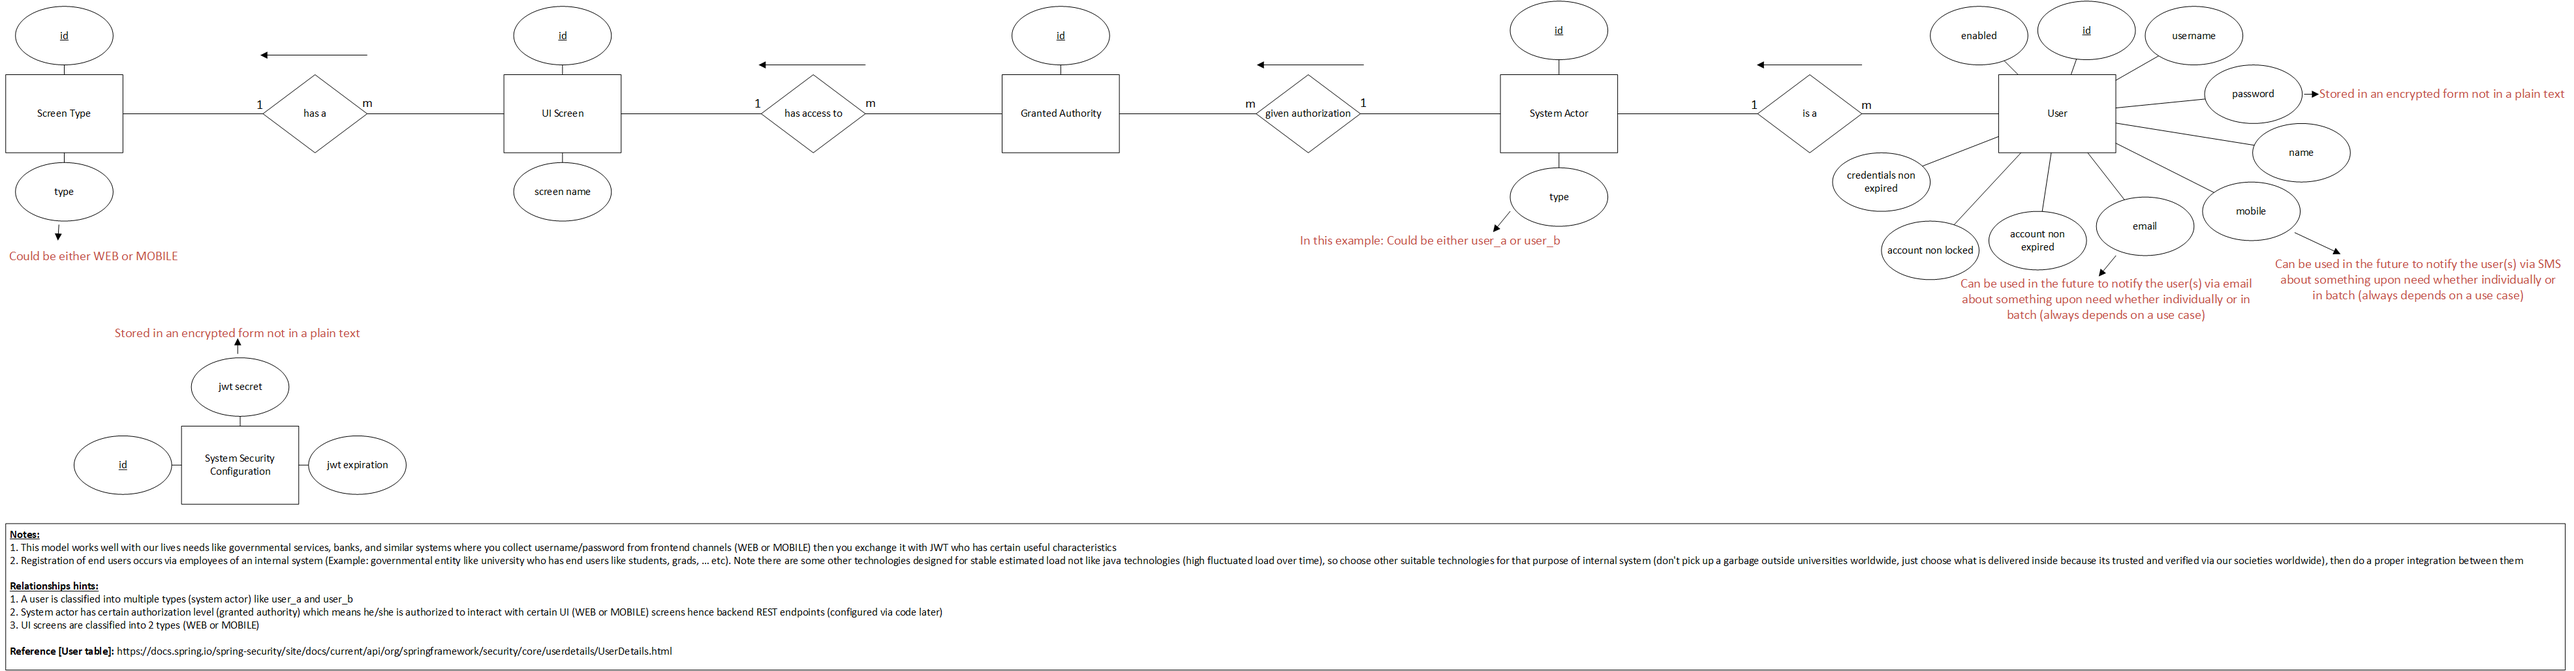
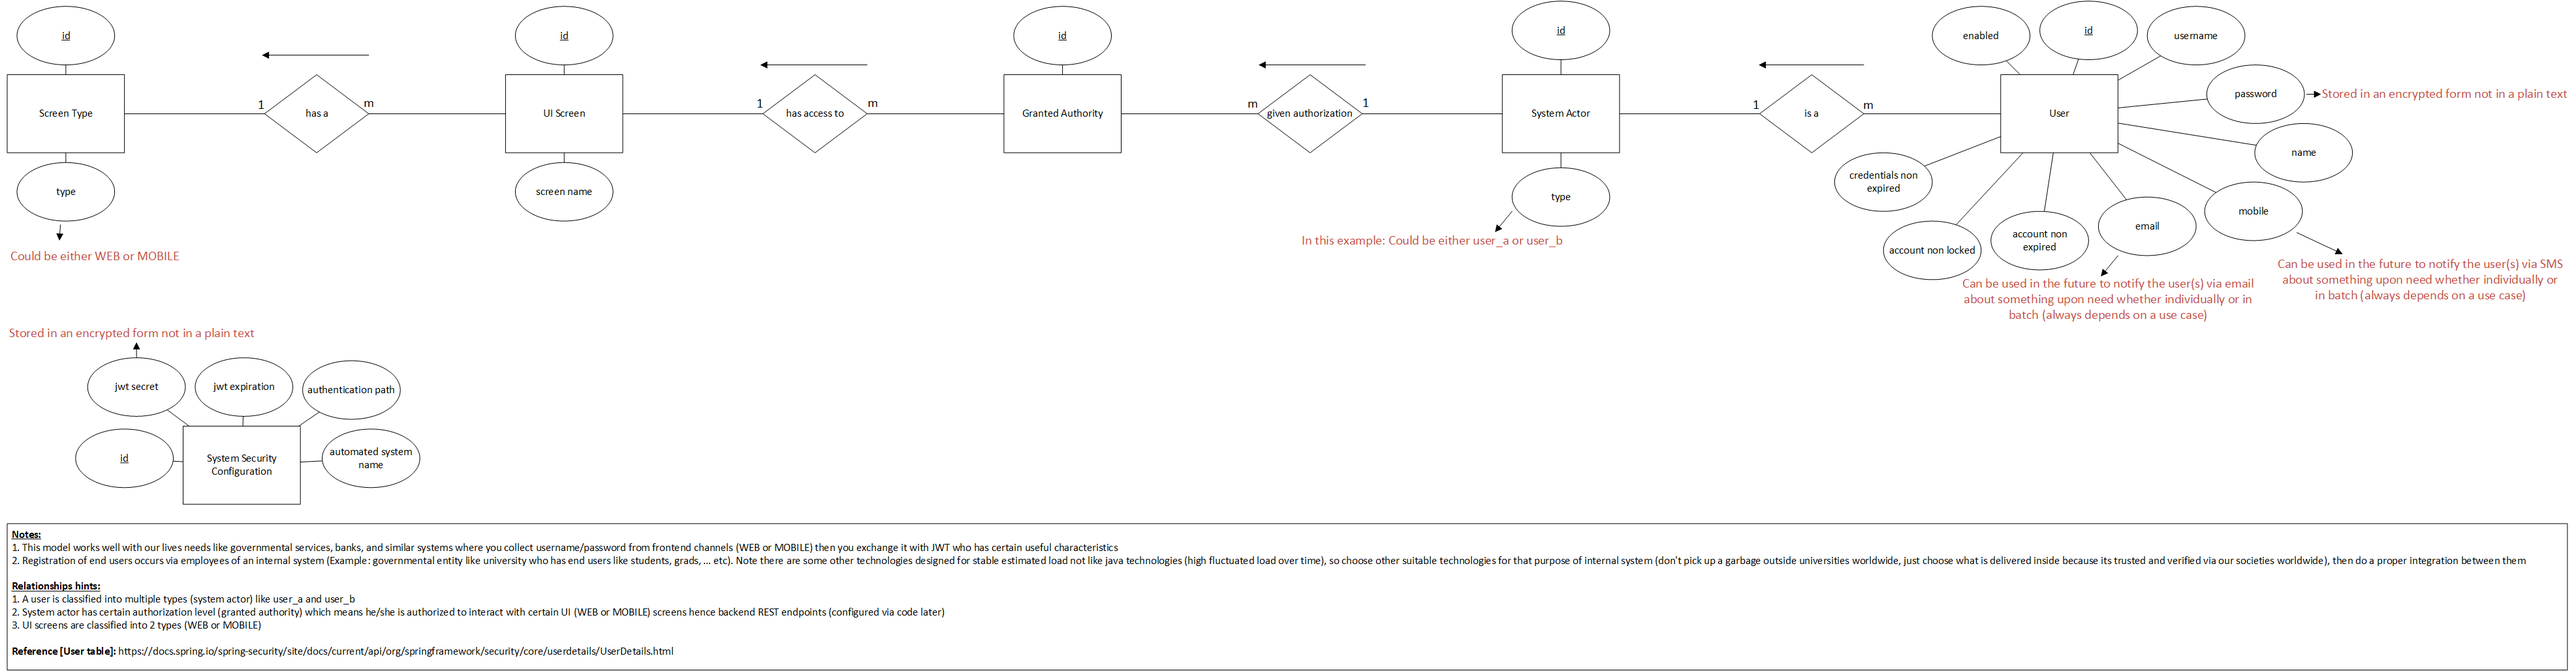
add new-field to system-configuration

diff --git a/authentication-component/src/main/java/com/poc/infrastructure/configs/JwtAuthenticationFilter.java b/authentication-component/src/main/java/com/poc/infrastructure/configs/JwtAuthenticationFilter.java
@@ -109,7 +109,7 @@ public class JwtAuthenticationFilter extends UsernamePasswordAuthenticationFilte
         String token = Jwts.builder()
                         .signWith(Keys.hmacShaKeyFor(systemSecurityConfiguration.getJwtSecret().getBytes()))
                         .setHeaderParam("typ", "jwt")
-                        .setIssuer("authentication-component")
+                        .setIssuer(systemSecurityConfiguration.getAutomatedSystemName())
                         .setSubject(user.getUsername())
                         .setIssuedAt(new Date())
                         .setExpiration(new Date(System.currentTimeMillis() + systemSecurityConfiguration.getJwtExpiration()))

diff --git a/authentication-component/src/main/java/com/poc/persistence/entities/SystemSecurityConfiguration.java b/authentication-component/src/main/java/com/poc/persistence/entities/SystemSecurityConfiguration.java
@@ -23,6 +23,9 @@ public class SystemSecurityConfiguration {
 	
 	@Column(name = "authentication_path")
 	private String authenticationPath;
+	
+	@Column(name = "automated_system_name")
+	private String automatedSystemName;
 
 	public int getId() {
 		return id;
@@ -54,6 +57,14 @@ public class SystemSecurityConfiguration {
 
 	public void setAuthenticationPath(String authenticationPath) {
 		this.authenticationPath = authenticationPath;
+	}
+
+	public String getAutomatedSystemName() {
+		return automatedSystemName;
+	}
+
+	public void setAutomatedSystemName(String automatedSystemName) {
+		this.automatedSystemName = automatedSystemName;
 	}	
 	
 }

diff --git a/business-component-1/src/main/java/com/poc/persistence/entities/SystemSecurityConfiguration.java b/business-component-1/src/main/java/com/poc/persistence/entities/SystemSecurityConfiguration.java
@@ -23,6 +23,9 @@ public class SystemSecurityConfiguration {
 	
 	@Column(name = "authentication_path")
 	private String authenticationPath;
+	
+	@Column(name = "automated_system_name")
+	private String automatedSystemName;
 
 	public int getId() {
 		return id;
@@ -55,5 +58,13 @@ public class SystemSecurityConfiguration {
 	public void setAuthenticationPath(String authenticationPath) {
 		this.authenticationPath = authenticationPath;
 	}	
+	
+	public String getAutomatedSystemName() {
+		return automatedSystemName;
+	}
+
+	public void setAutomatedSystemName(String automatedSystemName) {
+		this.automatedSystemName = automatedSystemName;
+	}
 	
 }

diff --git a/business-component-2/src/main/java/com/poc/persistence/entities/SystemSecurityConfiguration.java b/business-component-2/src/main/java/com/poc/persistence/entities/SystemSecurityConfiguration.java
@@ -23,6 +23,9 @@ public class SystemSecurityConfiguration {
 	
 	@Column(name = "authentication_path")
 	private String authenticationPath;
+	
+	@Column(name = "automated_system_name")
+	private String automatedSystemName;
 
 	public int getId() {
 		return id;
@@ -55,5 +58,13 @@ public class SystemSecurityConfiguration {
 	public void setAuthenticationPath(String authenticationPath) {
 		this.authenticationPath = authenticationPath;
 	}	
+	
+	public String getAutomatedSystemName() {
+		return automatedSystemName;
+	}
+
+	public void setAutomatedSystemName(String automatedSystemName) {
+		this.automatedSystemName = automatedSystemName;
+	}
 	
 }
